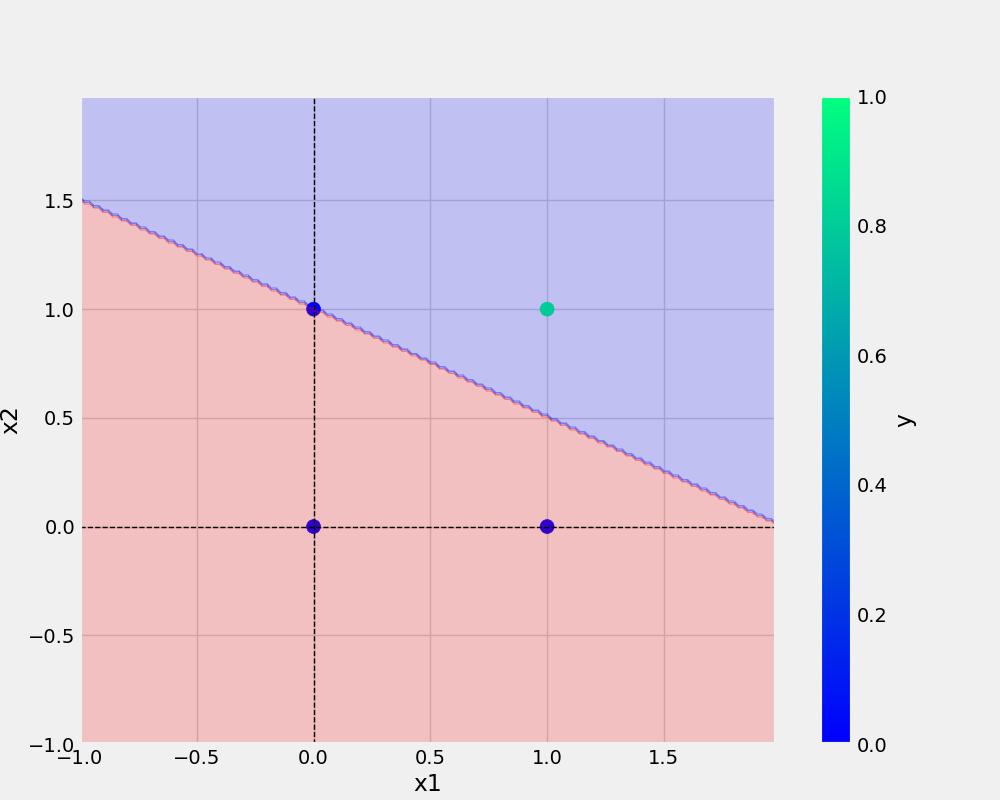
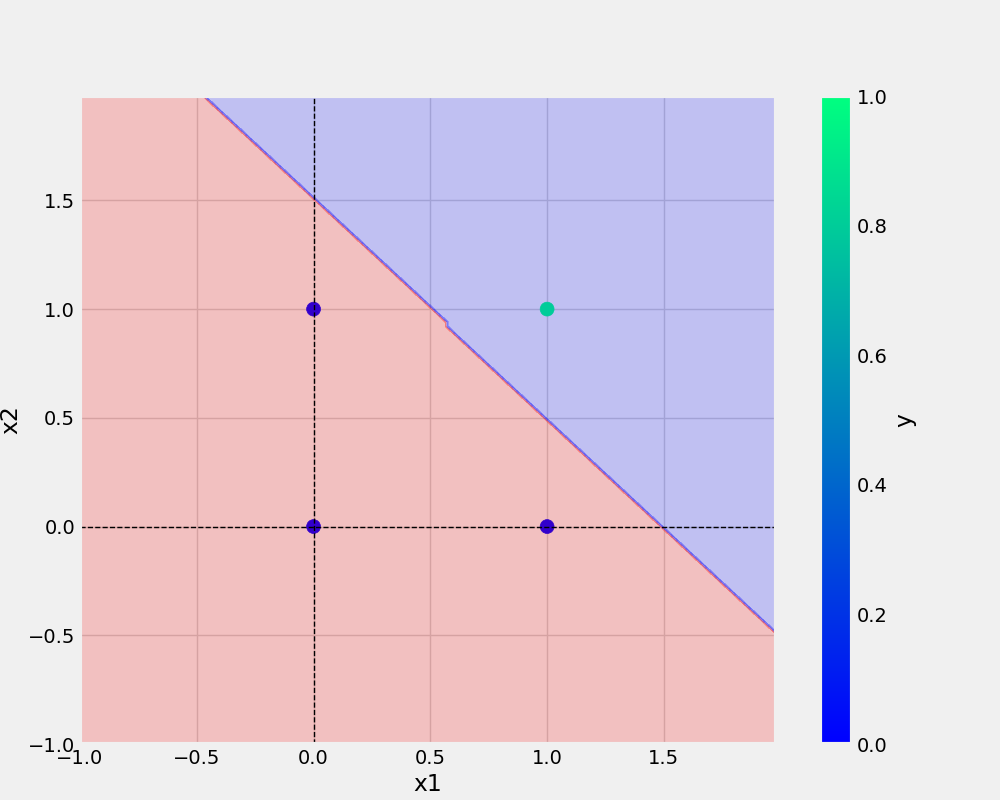
and organized

Changed region(s): [[0.062, 0.125, 0.558, 0.5312], [0.558, 0.5312, 0.775, 0.7812]]

diff --git a/and.py b/and.py
@@ -3,18 +3,21 @@ from utils.model import Perceptron
 from utils.all_utils import prepare_data
 import pandas as pd
 
+def main(data, eta, epoch, modelFileName, plotFileName):
+    df_and=pd.DataFrame(data)
+    model_and = Perceptron(eta, epoch)
+    x,y = prepare_data(df_and)
+    model_and.fit(x,y)
+    _=model_and.total_loss()
+    save_model(model_and, modelFileName)
+    save_plot(df_and, plotFileName, model_and)
 
-AND={
+if __name__ == "__main__":
+    AND={
     "x1":[0,0,1,1],
     "x2":[0,1,0,1],
     "y":[0,0,0,1]
-}
-df_and=pd.DataFrame(AND)
-ETA = 0.3
-EPOCHS = 10
-model_and = Perceptron(ETA, EPOCHS)
-x,y = prepare_data(df_and)
-model_and.fit(x,y)
-_=model_and.total_loss()
-save_model(model_and, "and.model")
-save_plot(df_and, "and.png", model_and)
+    }
+    ETA = 0.3
+    EPOCHS = 10
+    main(AND, ETA, EPOCHS, "and.model", "and.png")

diff --git a/or.py b/or.py
@@ -1,0 +1,20 @@
+from utils.all_utils import save_model, save_plot
+from utils.model import Perceptron
+from utils.all_utils import prepare_data
+import pandas as pd
+
+
+OR={
+    "x1":[0,0,1,1],
+    "x2":[0,1,0,1],
+    "y":[0,1,1,1]
+}
+df_or=pd.DataFrame(OR)
+ETA = 0.3
+EPOCHS = 10
+model_or = Perceptron(ETA, EPOCHS)
+x,y = prepare_data(df_or)
+model_or.fit(x,y)
+_=model_or.total_loss()
+save_model(model_or, "or.model")
+save_plot(df_or, "or.png", model_or)
